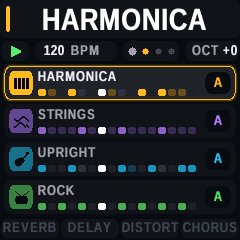
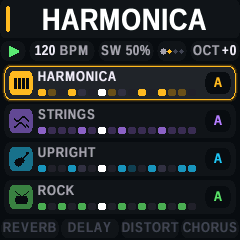
Swing on home's KNOB2 (50-66 %, 1 % a click), shown beside the tempo
- Home KNOB2: the song's swing; a SW pill on the info line (BPM, beat and octave pills made room)
- Saved swing is loaded again (no longer zeroed); CLEAR ALL makes it straight
- Guide, user guide, README and home screenshots updated

diff --git a/docs/index.html b/docs/index.html
@@ -176,6 +176,7 @@ footer a { color: var(--sub); }
         <div class="card"><h4>ALGORITHM</h4><p>Its sound, through every group in turn (drums: the kit).</p></div>
         <div class="card"><h4>PRESETS</h4><p>Its pattern, A&ndash;J. Hold <kbd>ARP</kbd> and turn: copy it into the next letter.</p></div>
         <div class="card"><h4>KNOB 1</h4><p>The tempo. (The sound itself is shaped in <kbd>EDIT</kbd>.)</p></div>
+        <div class="card"><h4>KNOB 2</h4><p>Swing, for the whole song: 50 % (straight) to 66 % (a heavy shuffle), a click a step; <b>SW</b> on the line under the title.</p></div>
         <div class="card"><h4>PLAY</h4><p>Every track starts together from step one, or stops.</p></div>
       </div>
       <p>Each card shows the track's sound, the steps of its pattern (the one playing white) and the pattern in a pill. <b>A&gt;C</b> means pattern C is queued after A: it starts when A comes round. The bottom line shows the chosen track's four pedals, glowing in their colours when on.</p>
@@ -395,7 +396,7 @@ footer a { color: var(--sub); }
   <h3>Home screen</h3>
   <table class="t">
     <tr><td><kbd>ALGORITHM</kbd></td><td>The sound or kit, through every group.</td></tr>
-    <tr><td><kbd>KNOB 1</kbd></td><td>Tempo.</td></tr>
+    <tr><td><kbd>KNOB 1</kbd> / <kbd>2</kbd></td><td>Tempo / swing (50&ndash;66 %).</td></tr>
     <tr><td><kbd>REC</kbd></td><td>Hold 1 s, then REC again: clear everything.</td></tr>
   </table>
 

diff --git a/firmware/src/quartet.c b/firmware/src/quartet.c
@@ -21,7 +21,7 @@
  *   offered in four groups a type (SND_GRP: LEAD keys, band, synth, odd; PAD strings, keys, synth, atmos; BASS
  *   acoustic, analog, digital, wild), the others loadable still. DRUMS: kits 0-17 (KIT_GRP: groove, machines,
  *   electro, odd), USER 96-99
- * (its name shows big). Home: KNOB1 tempo (KNOB2-4 nothing: the sound is EDIT's). EDIT: the SOUND page, the sound in
+ * (its name shows big). Home: KNOB1 tempo, KNOB2 swing 50-66 % (KNOB3-4 nothing: the sound is EDIT's). EDIT: the SOUND page, the sound in
  * depth (EDIT again: the signal chain, again: home; HOME: home; SELECT another track):
  *   ALGORITHM the page: INSTR a menu: type (LEAD/PAD/BASS), bank, sound (the bank's listed), USER slot (REC twice: save)
  *                    MAIN glide, cutoff, resonance, filter envelope   OSC wave 1, wave 2, osc 2 tuning, mix
@@ -210,7 +210,7 @@ typedef struct {                                /* the USER bank: sounds you sav
 static struct {
     uint8_t oct, ch, bpm, mute;                 /* mute: bit t = track t muted */
     uint8_t dkit;                               /* the drum kit: 808, CR-78, LM-1, LO-FI (ALGORITHM on DRUMS) */
-    uint8_t swing;                              /* 0..127: 50 % (straight) .. 66 % (for now always 0: no knob) */
+    uint8_t swing;                              /* 0..127: 50 % (straight) .. 66 % (home's KNOB2; gb_clock.h) */
     uint8_t vol[NTRK];                          /* the mixer (GLO): each track's volume, 100 = as is */
     uint8_t arp_on, arp_rate[NSYN];             /* the arpeggiator (ARP): bit t on; 0..3 = 1/4 .. 1/32 */
     uint8_t arp_oct[NSYN], arp_dir[NSYN];       /* its octaves 0..3 = 1..4; direction 0 up, 1 down, 2 random */
@@ -979,6 +979,7 @@ static void draw_status(int32_t oct, uint32_t trk, uint32_t show_ch, uint32_t pa
 /* the info line: little panels. Home: play / stop, the tempo, four beat lights, the octave. SEQ: one cell above each
  * knob: the step recorder BARS, LEN (the note's), DYN, the note; live BARS, STEP, PG, REC */
 static uint32_t syn_covers(uint32_t t, uint32_t pt, uint32_t s, uint32_t len);
+#define SWING_PCT(v) (50u + (((uint32_t)(v) & 127u) * 16u + 63u) / 127u)   /* set.swing -> 50 .. 66 % (nearest) */
 static void info_cell(int32_t x, const char *lab, const char *val, uint16_t lc, uint16_t vc)
 {
     int32_t tw = (lab[0] ? text_w(&FONT_S, lab) + 4 : 0) + text_w(&FONT_S, val), tx = x + 30 - tw / 2;
@@ -1017,17 +1018,23 @@ static void draw_info(uint32_t trk, uint32_t mode, uint32_t cur, uint32_t page, 
         }
     } else {
         uint32_t beat = (clk_step / 4u) % 4u;
-        cv_rrect(0, 1, 30, 20, 10, C_PANEL);
-        if (clk_run) for (i = 0; i < 10u; i++) cv_rect(11 + (int32_t)i, 6 + (int32_t)i / 2, 1, 11 - ((int32_t)i / 2) * 2, C_PLAYG);
-        else cv_rect(10, 6, 10, 10, C_SUB);
-        cv_rrect(34, 1, 84, 20, 10, C_PANEL);
+        int32_t bx;                             /* play, the tempo (KNOB1), the swing (KNOB2), the beat, the octave */
+        cv_rrect(0, 1, 26, 20, 10, C_PANEL);
+        if (clk_run) for (i = 0; i < 10u; i++) cv_rect(9 + (int32_t)i, 6 + (int32_t)i / 2, 1, 11 - ((int32_t)i / 2) * 2, C_PLAYG);
+        else cv_rect(8, 6, 10, 10, C_SUB);
+        cv_rrect(29, 1, 66, 20, 10, C_PANEL);
         *put_num(v, set.bpm, 1) = 0;
-        cv_text_bg(cv_text_bg(44, 3, &FONT_S, v, C_TXT, C_PANEL) + 6, 3, &FONT_S, "BPM", C_SUB, C_PANEL);
-        cv_rrect(122, 1, 58, 20, 10, C_PANEL);
-        for (i = 0; i < 4u; i++) disc(132 + (int32_t)i * 13, 11, i ? 3 : 4, clk_run && i == beat ? col : i ? C_DIMC : C_SUB);
-        cv_rrect(184, 1, 56, 20, 10, C_PANEL);
+        bx = 62 - (text_w(&FONT_S, v) + 4 + text_w(&FONT_S, "BPM")) / 2;
+        cv_text_bg(cv_text_bg(bx, 3, &FONT_S, v, C_TXT, C_PANEL) + 4, 3, &FONT_S, "BPM", C_SUB, C_PANEL);
+        cv_rrect(98, 1, 56, 20, 10, C_PANEL);
+        p = put(v, "SW "); p = put_num(p, SWING_PCT(set.swing), 2); *p++ = '%'; *p = 0;
+        cv_text_bg(126 - text_w(&FONT_S, v) / 2, 3, &FONT_S, v, set.swing ? C_TXT : C_SUB, C_PANEL);
+        cv_rrect(157, 1, 30, 20, 10, C_PANEL);
+        for (i = 0; i < 4u; i++) disc(163 + (int32_t)i * 6, 11, i ? 2 : 3, clk_run && i == beat ? col : i ? C_DIMC : C_SUB);
+        cv_rrect(190, 1, 50, 20, 10, C_PANEL);
         v[0] = oct < 0 ? '-' : '+'; v[1] = (char)('0' + (oct < 0 ? -oct : oct)); v[2] = 0;
-        cv_text_bg(cv_text_bg(192, 3, &FONT_S, "OCT", C_SUB, C_PANEL) + 4, 3, &FONT_S, v, C_TXT, C_PANEL);
+        bx = 215 - (text_w(&FONT_S, "OCT") + 2 + text_w(&FONT_S, v)) / 2;
+        cv_text_bg(cv_text_bg(bx, 3, &FONT_S, "OCT", C_SUB, C_PANEL) + 2, 3, &FONT_S, v, C_TXT, C_PANEL);
     }
     cv_blit(0, Y_INFO);
 }
@@ -2219,7 +2226,6 @@ static int proj_load(uint32_t i)                /* 0 = loaded; -1 = empty or bro
     if (n < sizeof set) slots_from_legacy();    /* (from before the slots' instruments) */
     if (!settings_ok()) { set_swap(); return -1; }   /* (broken: the work back, untouched) */
     trk_req++;                                  /* (the slots' instruments: the voices dealt again) */
-    set.swing = 0;                              /* (swing: off for now) */
     trk_mute = set.mute;
     clock_set_bpm(set.bpm);
     return 0;
@@ -2335,7 +2341,6 @@ static void app_main(void)
         if (song_loaded < sizeof set) slots_from_legacy();   /* (from before the slots' instruments) */
         if (!settings_ok()) set_defaults();
     }
-    set.swing = 0;                              /* (swing: off for now, no knob for it) */
     trk_req++;                                  /* (the slots' instruments: the voices dealt for them) */
     proj_scan();                                /* which project slots are full */
     knobs_sync(snd_pos, pat_pos);
@@ -2832,9 +2837,15 @@ static void app_main(void)
             fm1_enc_take(ENC_KNOB3); fm1_enc_take(ENC_KNOB4);
         } else if (spage == PG_COPY) {          /* the copy page: no knobs */
             fm1_enc_take(ENC_KNOB1); fm1_enc_take(ENC_KNOB2); fm1_enc_take(ENC_KNOB3); fm1_enc_take(ENC_KNOB4);
-        } else if (spage == PG_MAIN) {          /* home: KNOB1 the tempo (the sound itself: EDIT) */
+        } else if (spage == PG_MAIN) {          /* home: KNOB1 the tempo, KNOB2 the swing (the sound itself: EDIT) */
             if (knob(ENC_KNOB1, &set.bpm, BPM_MIN, BPM_MAX)) { clock_set_bpm(set.bpm); CHANGED(); }
-            fm1_enc_take(ENC_KNOB2); fm1_enc_take(ENC_KNOB3); fm1_enc_take(ENC_KNOB4);
+            if ((e = fm1_enc_take(ENC_KNOB2)) != 0) {   /* swing 50 % (straight) .. 66 %, 1 % a click (set.swing 0..127) */
+                int32_t pc = (int32_t)SWING_PCT(set.swing) + e;
+                pc = pc < 50 ? 50 : pc > 66 ? 66 : pc;
+                set.swing = (uint8_t)(((pc - 50) * 127 + 8) / 16);
+                CHANGED();
+            }
+            fm1_enc_take(ENC_KNOB3); fm1_enc_take(ENC_KNOB4);
         }
         /* REC: a tap = a rest (synth step recorder) / recording on, off (the live page: it starts the music too); held
          * 1 s = clear the pattern (live: the one playing). HOME: held 1 s asks "CLEAR ALL?", REC again clears everything */

diff --git a/docs/USER_GUIDE.md b/docs/USER_GUIDE.md
@@ -17,7 +17,7 @@ The **home screen** shows the selected instrument and pattern (A–J), tempo, be
 
 ![Quartet screens](screens.png)
 
-On the home screen, **KNOB1** sets tempo; the sound itself is shaped in **EDIT**. **PRESETS** chooses patterns, **SEQ** opens the sequencer (and SUPER SEQ), **EDIT** opens the sound editor, **GLO** opens the mixer and **SAVE** opens project storage. **HOME** always returns here.
+On the home screen, **KNOB1** sets tempo and **KNOB2** the **swing** for the whole song, 50 % (straight) to 66 % (a heavy shuffle), a click a step, shown as **SW** on the line under the title: every second 16th comes a little later, while the beat itself stays exactly in time. The sound itself is shaped in **EDIT**. **PRESETS** chooses patterns, **SEQ** opens the sequencer (and SUPER SEQ), **EDIT** opens the sound editor, **GLO** opens the mixer and **SAVE** opens project storage. **HOME** always returns here.
 
 ## How the controls work
 
@@ -207,7 +207,7 @@ Quartet **automatically remembers current work** after playback stops and the so
 
 Press **SAVE**; **KNOB1** chooses slot 1–4. Press **REC twice** (second press within three seconds) to **save**, or **PLAY twice** to **load**. Loading replaces current work; an empty slot says **EMPTY**. Saving or loading stops playback. Press **SAVE** to leave the page.
 
-To clear the current project, **hold REC on the home screen**, then confirm with REC. This resets patterns, sounds, effects, mixer, arpeggiators and SUPER SEQ, **not** the four saved slots or your USER sounds. MIDI channel and octave are retained.
+To clear the current project, **hold REC on the home screen**, then confirm with REC. This resets patterns, sounds, effects, mixer, swing, arpeggiators and SUPER SEQ, **not** the four saved slots or your USER sounds. MIDI channel and octave are retained.
 
 ## Complete control reference
 
@@ -216,7 +216,7 @@ To clear the current project, **hold REC on the home screen**, then confirm with
 | **SELECT** | Select instrument | Select instrument | SUPER SEQ: select row; SOUND, chain: another instrument; copy page: the track to copy from |
 | **PRESETS** | Select pattern A–J | Select pattern | SUPER SEQ: select song; pedal: the type (category); chain: another pedal; copy page: the pattern to copy from |
 | **ALGORITHM** | Select sound/kit (no test note) | Melodic step cursor | Pedal: the pedal within its type; SOUND: the page; chain: the slot; copy page: the pattern; SUPER SEQ: the box; save: the slot; KEY: the key; arpeggiator, mixer: nothing |
-| **KNOB1–4** | Tempo (KNOB2–4: nothing) | Bars / note length / expression / note (drums: bars / — / expression / bar) | LIVE: bars / cursor / bar / —; KEY: lock / lights; SUPER SEQ: on-off / box / pattern / length; otherwise labelled settings |
+| **KNOB1–4** | Tempo / swing (KNOB3–4: nothing) | Bars / note length / expression / note (drums: bars / — / expression / bar) | LIVE: bars / cursor / bar / —; KEY: lock / lights; SUPER SEQ: on-off / box / pattern / length; otherwise labelled settings |
 | **Keys** | Play notes; drums: first six white keys | Melodic notes; drums: black keys choose voice, white keys toggle hits | LIVE: play and record |
 | **OCT− / OCT+** | Tap: octave; hold: the pattern an octave | Tap: drum step page; hold: the pattern an octave (synths) | Octave where applicable |
 | **PLAY** | Start/stop from step one | Start/stop | LIVE: start/stop (stopping ends recording); save: load |

diff --git a/README.md b/README.md
@@ -10,7 +10,7 @@ A four-track groovebox for the M-VAVE FM-1 built around traditional instruments 
 
 - **Four tracks**: three synth slots, each a LEAD, PAD or BASS (they start as LEAD, BASS, PAD; two of a kind show as
   L1 / L2), sharing nine voices, and DRUMS. Each type has its own colour.
-- **10 patterns per track** (A-J), 1 to 4 bars, every note with a length (1/16 to a whole bar) and an expression. A new
+- **10 patterns per track** (A-J), 1 to 4 bars, with swing, every note with a length (1/16 to a whole bar) and an expression. A new
   pattern starts when the playing one comes round.
 - **Step recorder and live recorder**: write notes step by step, or play them in while the music runs; live notes
   are placed on the beat.
